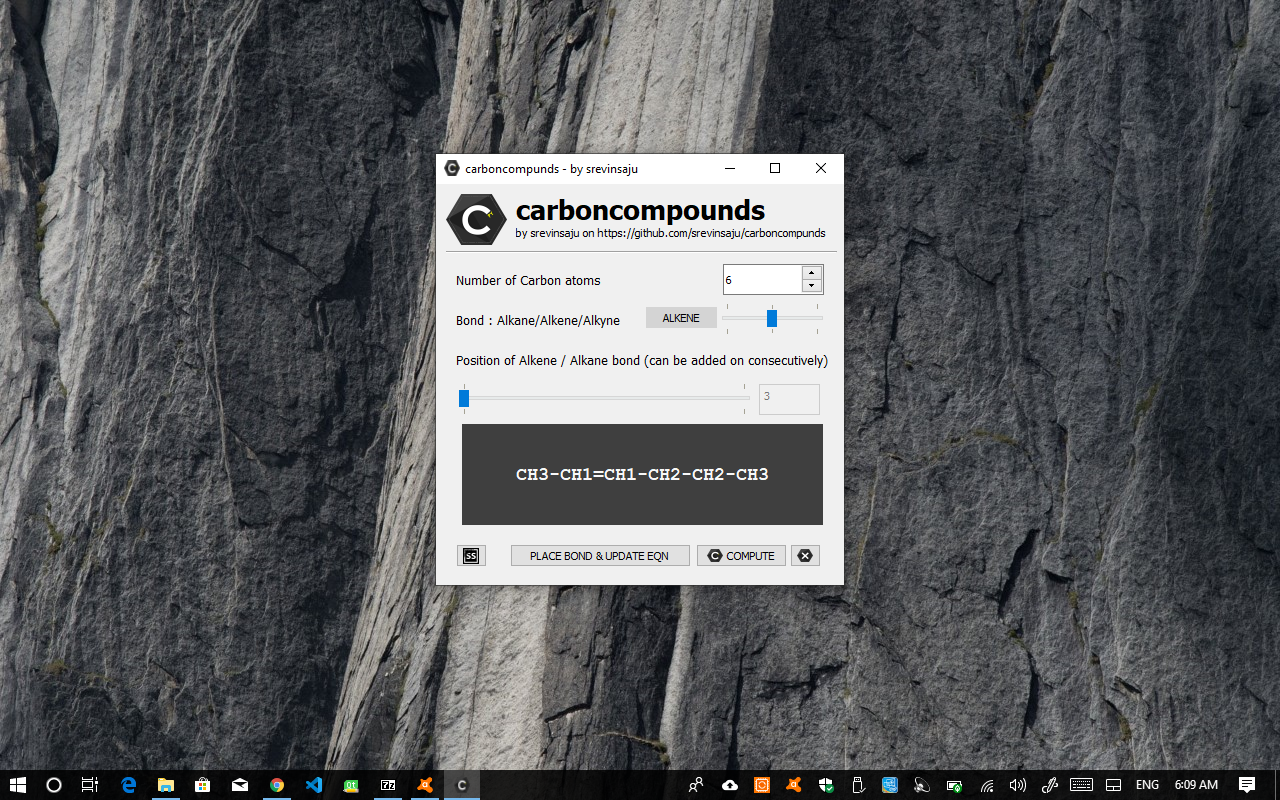
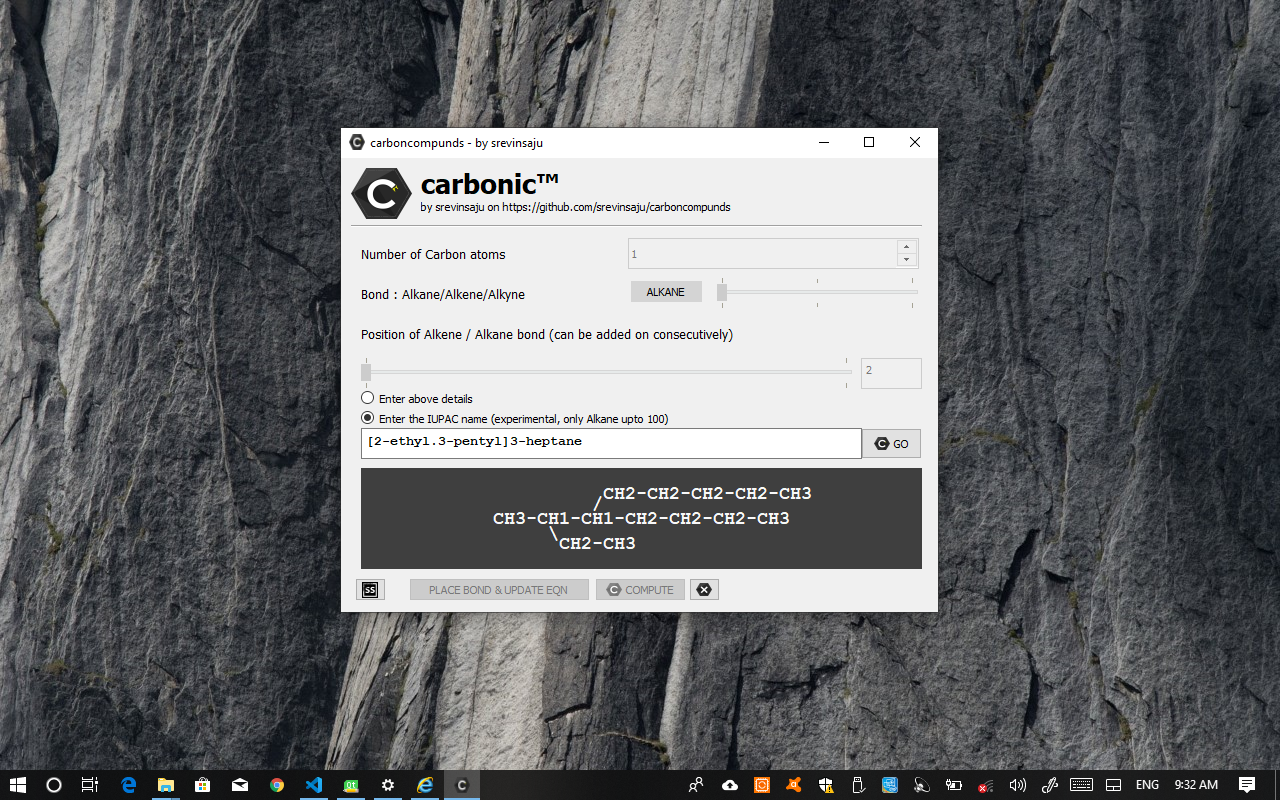
modified:   README.md 	modified:   main.py 	modified:   mainui.py 	modified:   screenshot.png 	modified:   ui.ui

diff --git a/mainui.py b/mainui.py
@@ -12,17 +12,17 @@ from PyQt5 import QtCore, QtGui, QtWidgets
 class Ui_Dialog(object):
     def setupUi(self, Dialog):
         Dialog.setObjectName("Dialog")
-        Dialog.resize(401, 454)
+        Dialog.resize(597, 454)
         icon = QtGui.QIcon()
         icon.addPixmap(QtGui.QPixmap("g960.png"), QtGui.QIcon.Normal, QtGui.QIcon.Off)
         Dialog.setWindowIcon(icon)
         self.nooc = QtWidgets.QSpinBox(Dialog)
-        self.nooc.setGeometry(QtCore.QRect(287, 80, 101, 31))
+        self.nooc.setGeometry(QtCore.QRect(287, 80, 291, 31))
         self.nooc.setMinimum(1)
         self.nooc.setMaximum(999999999)
         self.nooc.setObjectName("nooc")
         self.bondui = QtWidgets.QSlider(Dialog)
-        self.bondui.setGeometry(QtCore.QRect(286, 120, 101, 31))
+        self.bondui.setGeometry(QtCore.QRect(376, 120, 201, 31))
         self.bondui.setMinimum(1)
         self.bondui.setMaximum(3)
         self.bondui.setPageStep(1)
@@ -46,7 +46,7 @@ class Ui_Dialog(object):
         self.pushButton_3.setObjectName("pushButton_3")
         self.placer = QtWidgets.QSlider(Dialog)
         self.placer.setEnabled(False)
-        self.placer.setGeometry(QtCore.QRect(23, 200, 291, 31))
+        self.placer.setGeometry(QtCore.QRect(20, 200, 491, 31))
         self.placer.setMinimum(2)
         self.placer.setMaximum(3)
         self.placer.setPageStep(1)
@@ -56,7 +56,7 @@ class Ui_Dialog(object):
         self.placer.setObjectName("placer")
         self.placertxt = QtWidgets.QTextEdit(Dialog)
         self.placertxt.setEnabled(False)
-        self.placertxt.setGeometry(QtCore.QRect(323, 200, 61, 31))
+        self.placertxt.setGeometry(QtCore.QRect(520, 200, 61, 31))
         self.placertxt.setObjectName("placertxt")
         self.label = QtWidgets.QLabel(Dialog)
         self.label.setGeometry(QtCore.QRect(80, 0, 371, 51))
@@ -70,7 +70,7 @@ class Ui_Dialog(object):
         self.label_2.setGeometry(QtCore.QRect(80, 40, 371, 16))
         self.label_2.setObjectName("label_2")
         self.line = QtWidgets.QFrame(Dialog)
-        self.line.setGeometry(QtCore.QRect(10, 60, 391, 16))
+        self.line.setGeometry(QtCore.QRect(10, 60, 571, 16))
         self.line.setFrameShape(QtWidgets.QFrame.HLine)
         self.line.setFrameShadow(QtWidgets.QFrame.Sunken)
         self.line.setObjectName("line")
@@ -109,7 +109,7 @@ class Ui_Dialog(object):
         self.abt.setIcon(icon2)
         self.abt.setObjectName("abt")
         self.output = QtWidgets.QLabel(Dialog)
-        self.output.setGeometry(QtCore.QRect(20, 310, 361, 101))
+        self.output.setGeometry(QtCore.QRect(20, 310, 561, 101))
         font = QtGui.QFont()
         font.setFamily("Courier New")
         font.setPointSize(14)
@@ -122,7 +122,7 @@ class Ui_Dialog(object):
         self.output.setWordWrap(True)
         self.output.setObjectName("output")
         self.bondtxt = QtWidgets.QLabel(Dialog)
-        self.bondtxt.setGeometry(QtCore.QRect(210, 123, 71, 21))
+        self.bondtxt.setGeometry(QtCore.QRect(290, 123, 71, 21))
         self.bondtxt.setAutoFillBackground(False)
         self.bondtxt.setStyleSheet("border-color: rgb(117, 117, 117);\n"
 "gridline-color: rgb(117, 117, 117);\n"
@@ -140,7 +140,7 @@ class Ui_Dialog(object):
         self.radioButton_2.setObjectName("radioButton_2")
         self.textEdit = QtWidgets.QTextEdit(Dialog)
         self.textEdit.setEnabled(False)
-        self.textEdit.setGeometry(QtCore.QRect(20, 270, 311, 31))
+        self.textEdit.setGeometry(QtCore.QRect(20, 270, 501, 31))
         font = QtGui.QFont()
         font.setFamily("Courier New")
         font.setPointSize(10)
@@ -151,11 +151,11 @@ class Ui_Dialog(object):
         self.textEdit.setObjectName("textEdit")
         self.pushButton_4 = QtWidgets.QPushButton(Dialog)
         self.pushButton_4.setEnabled(False)
-        self.pushButton_4.setGeometry(QtCore.QRect(330, 270, 51, 31))
+        self.pushButton_4.setGeometry(QtCore.QRect(520, 270, 61, 31))
         self.pushButton_4.setIcon(icon)
         self.pushButton_4.setObjectName("pushButton_4")
         self.output_2 = QtWidgets.QLabel(Dialog)
-        self.output_2.setGeometry(QtCore.QRect(20, 370, 361, 31))
+        self.output_2.setGeometry(QtCore.QRect(20, 370, 561, 31))
         font = QtGui.QFont()
         font.setFamily("Courier New")
         font.setPointSize(14)
@@ -169,7 +169,7 @@ class Ui_Dialog(object):
         self.output_2.setWordWrap(True)
         self.output_2.setObjectName("output_2")
         self.output_3 = QtWidgets.QLabel(Dialog)
-        self.output_3.setGeometry(QtCore.QRect(20, 320, 361, 31))
+        self.output_3.setGeometry(QtCore.QRect(20, 320, 561, 31))
         font = QtGui.QFont()
         font.setFamily("Courier New")
         font.setPointSize(14)
@@ -183,7 +183,7 @@ class Ui_Dialog(object):
         self.output_3.setWordWrap(True)
         self.output_3.setObjectName("output_3")
         self.output_4 = QtWidgets.QLabel(Dialog)
-        self.output_4.setGeometry(QtCore.QRect(20, 330, 361, 31))
+        self.output_4.setGeometry(QtCore.QRect(20, 330, 561, 31))
         font = QtGui.QFont()
         font.setFamily("Courier New")
         font.setPointSize(14)
@@ -197,7 +197,7 @@ class Ui_Dialog(object):
         self.output_4.setWordWrap(True)
         self.output_4.setObjectName("output_4")
         self.output_6 = QtWidgets.QLabel(Dialog)
-        self.output_6.setGeometry(QtCore.QRect(20, 360, 361, 31))
+        self.output_6.setGeometry(QtCore.QRect(20, 360, 561, 31))
         font = QtGui.QFont()
         font.setFamily("Courier New")
         font.setPointSize(14)

diff --git a/main.py b/main.py
@@ -405,7 +405,7 @@ class MyAppv(Ui_Dialog):
         restxt = self.chkBond(bonds, noofc, bond00, numbranch, branch)
         print(restxt + "jj")
         leng = len(restxt)
-        if(leng>=32):
+        if(leng>=50):
 
             self.output.setFont(QtGui.QFont('Courier New', 10, weight=QtGui.QFont.Bold))
         else:

diff --git a/README.md b/README.md
@@ -37,6 +37,18 @@ b) Linux or Mac: `pip3 install PyQt5`
 ## Contribute
 Small AIs are made great with societal support. Pull Requests, Contributors and Issues help devleop great software from scratch. Your support is highly appreciated! 
 
+
+## Changelog
+
+###05082019 0924 GMT+530
+* Added Transalator, to transalate normal IUPAC names to carbond bonds with length
+* Extended UI to prevent glitches
+* Added Carbonic logo .svg (licesnsed under Creative Commons License Attributions 4.0, made with Inkscape)
+* Added groups like -methyl, -ethyl, -propyl groups to extend the carbonic engne support
+* Added prefix numbers to place double/triple bonds. Prefix nmbers for alkane compunds are deprecated.
+
+
+
 ## License
     Copyright (C) 2019 Srevin Saju (srevinsaju)
 
